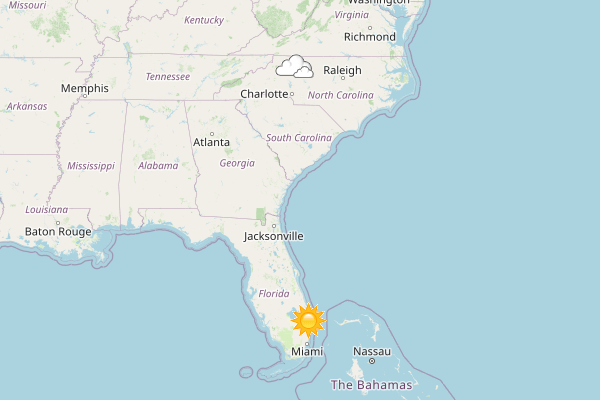
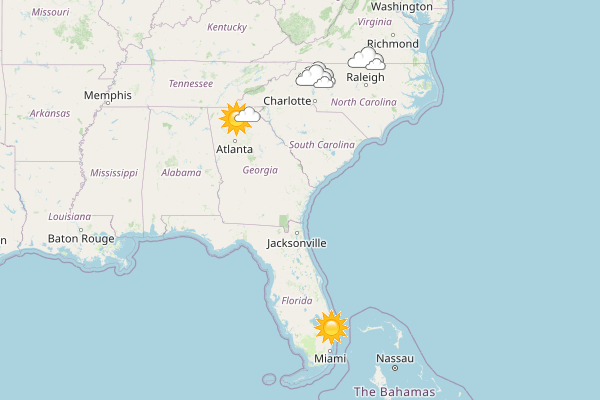
removed third city from compareShow controller

diff --git a/controllers/controller.js b/controllers/controller.js
@@ -184,13 +184,8 @@ exports.compareShow = (request, response) => {
     let citiesWeather = [];
     let weatherMarker1 = {};
     let weatherMarker2 = {};
-    let weatherMarker3 = {};
 
-    forecast.find({search: cities[0], degreeType: "F"}, (err, data) => {
-        
-        citiesWeather.push(data[0]);
-
-        forecast.find({search: cities[1], degreeType: "F"}, (err, data) => { 
+        forecast.find({search: cities[0], degreeType: "F"}, (err, data) => { 
             citiesWeather.push(data[0]);
                 
                 forecast.find({search: cities[1], degreeType: "F"}, (err, data) => {
@@ -210,16 +205,8 @@ exports.compareShow = (request, response) => {
                         height: 45,
                     };
 
-                    weatherMarker3 = {
-                        img: citiesWeather[2].current.imageUrl,
-                        coord: [parseFloat(citiesWeather[2].location.long), parseFloat(citiesWeather[2].location.lat)],
-                        width: 55,
-                        height: 45,
-                    };
-
                     map.addMarker(weatherMarker1); 
                     map.addMarker(weatherMarker2); 
-                    map.addMarker(weatherMarker3);
 
                     async function renderMap (){
                         await map.render(null, 5);
@@ -233,6 +220,6 @@ exports.compareShow = (request, response) => {
                     .catch(err => console.log(err))
             });
         });
-    });
+    
 
 };
